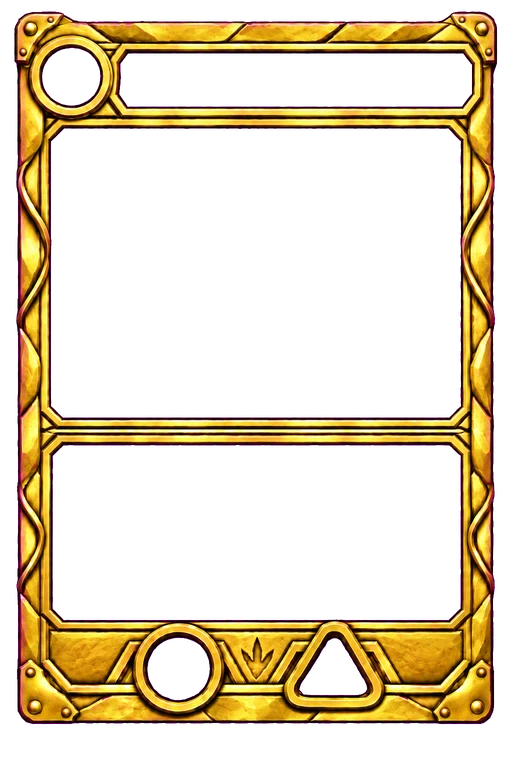
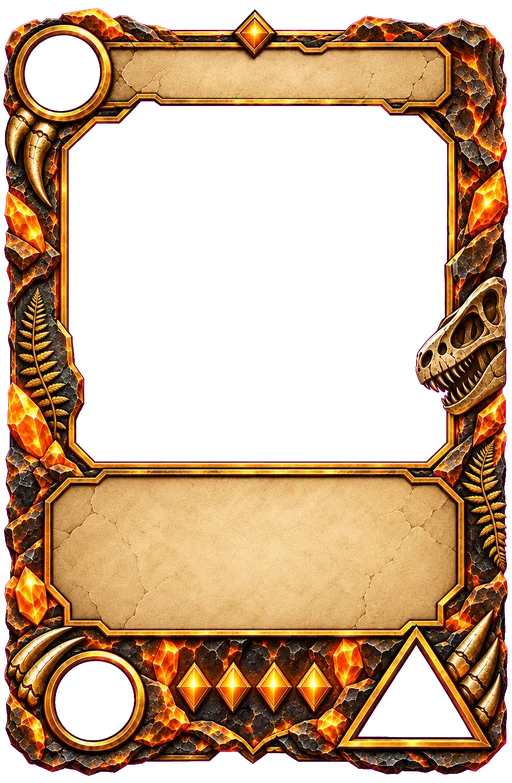
Las legendarias estrenan marco propio, y la carta entera se queda en los jefes
Hasta hoy los cinco marcos de criatura eran el mismo dibujo con otro material.
El legendario es ahora uno distinto, y trae dentro lo que eran piezas sueltas:
el aro del coste, el círculo del Ataque y el triángulo de la Vida, con el
interior hueco. Sus tres chapas se apagan —dibujarlas encima sería ponerle un
aro a un aro— y, sin chapa que cambiar, los dos estados del Ataque los cuenta
el color de la cifra, como la Vida herida ya hacía.

La banda del nombre y la caja de la habilidad son papel pintado en el PNG, así
que ahí la tinta va oscura; las tres cifras caen sobre hueco, o sea sobre el
fondo de la carta, y siguen en claro. Es la única carta del juego con las dos
tintas a la vez.

La geometría la midió tools/marcos.py sobre el PNG, salvo la banda y la caja,
que en este marco no son magenta. La ventana crece del 37,7 % al 45,9 % del
alto y la caja se encoge del 22,8 % al 20,9 %: por eso el texto del visor baja
a 10,5/12 y el título a 18, y las cuatro cartas más largas del set a 9,5/10,8.
Comprobadas las 144: no se corta ninguna línea.

Y las criaturas legendarias dejan de ir a sangre. Las dos cosas se pelean por
la misma carta —una la enmarca y la otra le quita el marco— y gana el marco,
porque la rareza se lee y las cifras tienen dónde apoyarse. La carta entera se
queda en las cinco de jefe, que viven fuera del set y no tienen rareza que
enseñar; test/entera.test.js guarda esa frontera.

Sin migración ni despliegue: es CSS, un WebP y la frontera de esEntera().
[…]

diff --git a/test/entera.test.js b/test/entera.test.js
@@ -1,44 +1,43 @@
 /**
- * La carta ENTERA: las criaturas legendarias y las de jefe van a sangre, con
- * la ilustración cubriendo la carta y el marco reducido a un filete. Lo que
- * se vigila es la frontera —qué cartas lo son y qué cartas no— y que la clase
- * sólo aparezca con foto: una silueta SVG a sangre sería un rectángulo de
- * color con un nombre encima.
+ * La carta ENTERA: las cinco de jefe van a sangre, con la ilustración
+ * cubriendo la carta y el marco reducido a un filete. Lo que se vigila es la
+ * frontera —qué cartas lo son y qué cartas no— y que la clase sólo aparezca
+ * con foto: una silueta SVG a sangre sería un rectángulo de color con un
+ * nombre encima.
+ *
+ * Las criaturas LEGENDARIAS lo fueron hasta el 18-09-2026 y dejaron de serlo
+ * al estrenar marco propio: las dos cosas se pelean por la misma carta, una la
+ * enmarca y la otra le quita el marco. Ese test está aquí para que no vuelvan
+ * a ser las dos cosas a la vez sin que alguien lo decida.
  */
 import { test } from 'node:test';
 import assert from 'node:assert/strict';
 import { readFileSync } from 'node:fs';
-import { CARTAS, CARTAS_DE_JEFE, TIPO, RAREZA } from '../src/data/cards.js';
+import { CARTAS, CARTAS_DE_JEFE } from '../src/data/cards.js';
 import { esEntera } from '../src/ui/art.js';
 import { cartaHTML } from '../src/ui/render.js';
 
 const css = readFileSync(new URL('../carta.css', import.meta.url), 'utf8');
 
-test('son enteras exactamente las criaturas legendarias y las cinco de jefe', () => {
-  for (const c of Object.values(CARTAS)) {
-    const debe = c.tipo === TIPO.DINOSAURIO && c.rareza === RAREZA.LEGENDARIO;
-    assert.equal(esEntera(c.id), debe, c.id);
-  }
+test('son enteras exactamente las cinco cartas de jefe', () => {
+  for (const c of Object.values(CARTAS)) assert.equal(esEntera(c.id), false, c.id);
   for (const c of Object.values(CARTAS_DE_JEFE)) assert.ok(esEntera(c.id), c.id);
 });
 
-test('una legendaria de soporte NO es entera: lo que va a sangre es el animal', () => {
-  const soporte = Object.values(CARTAS).filter((c) => c.tipo !== TIPO.DINOSAURIO && c.rareza === RAREZA.LEGENDARIO);
-  assert.ok(soporte.length > 0, 'el set tiene legendarias de soporte');
-  for (const c of soporte) assert.ok(!esEntera(c.id), c.id);
+test('una legendaria del set NO es entera: lleva su marco', () => {
+  const html = cartaHTML('tyrannosaurus', { variante: 'col' });
+  assert.ok(!/class="[^"]*\bentera\b/.test(html));
+  assert.ok(!html.includes('c-velo'), 'ni el velo, que sólo viaja en las que pueden ir a sangre');
+  assert.ok(html.includes('m-dino_legendaria'));
 });
 
-test('sin foto detectada la carta sale con su marco: la clase `entera` no se emite', () => {
+test('sin foto detectada la de jefe sale con su marco: la clase `entera` no se emite', () => {
   // En node no hay índice de fotos, así que `hayFoto` es falso para todas.
-  const html = cartaHTML('tyrannosaurus', { variante: 'col' });
+  const html = cartaHTML('jefe_saurophaganax', { variante: 'col' });
   assert.ok(!/class="[^"]*\bentera\b/.test(html), 'la clase entera sólo va con foto');
-  assert.ok(html.includes('m-dino_legendaria'), 'el marco legendario sigue puesto de reserva');
+  assert.ok(html.includes('m-dino_jefe'), 'el marco de jefe sigue puesto de reserva');
   assert.ok(html.includes('c-velo'), 'el velo viaja siempre: la clase puede llegar con la foto');
   assert.ok(html.includes('c-fondo'), 'el fondo desenfocado también');
-});
-
-test('una carta que no puede ser entera no lleva velo', () => {
-  assert.ok(!cartaHTML('allosaurus', { variante: 'col' }).includes('c-velo'));
 });
 
 test('carta.css tiene la geometría de la carta entera y apaga el marco dibujado', () => {
@@ -48,4 +47,16 @@ test('carta.css tiene la geometría de la carta entera y apaga el marco dibujado
   assert.match(css, /\.entera \.c-velo\s*\{[^}]*display:\s*block/);
   assert.match(css, /\.entera \.c-arte \.foto\s*\{[^}]*object-fit:\s*contain/, 'la foto apaisada va entera, no recortada');
   assert.match(css, /\.entera \.c-fondo\s*\{[^}]*blur/);
+});
+
+test('el marco legendario trae sus huecos dentro: sus chapas se apagan', () => {
+  assert.match(css, /\.carta\.con-marco\.m-dino_legendaria\s*\{[^}]*--ven-alto:\s*45\.9%/);
+  assert.match(css, /\.carta\.con-marco\.m-dino_legendaria \.c-chapa\s*\{\s*display:\s*none/);
+  // La banda y la caja son papel pintado: ahí la tinta va oscura, y las tres
+  // cifras, que caen sobre hueco, se quedan en claro.
+  assert.match(css, /\.carta\.con-marco\.m-dino_legendaria \.c-hab\s*\{\s*color:\s*#5d2d08/);
+  assert.match(css, /\.carta\.con-marco\.m-dino_legendaria \.st-a b[^{]*\{\s*color:\s*#ffe9b0/);
+  // Sin chapa que cambiar, los dos estados del Ataque los cuenta el color.
+  assert.match(css, /\.carta\.con-marco\.m-dino_legendaria \.st-a\.mejorado b\s*\{\s*color:/);
+  assert.match(css, /\.carta\.con-marco\.m-dino_legendaria \.st-a\.mermado b\s*\{\s*color:/);
 });

diff --git a/carta.css b/carta.css
@@ -87,6 +87,63 @@
   box-shadow: none;
   border-radius: 5.4% / 3.9%;
 }
+/* ================================================== el marco LEGENDARIO
+   Desde el 18-09-2026 las criaturas legendarias llevan un marco propio, y no
+   el mismo dibujo con otro metal que las otras tres rarezas. Trae dentro lo
+   que hasta ahora eran piezas sueltas —el aro del coste, el círculo del
+   Ataque y el triángulo de la Vida—, con el interior hueco, así que sus tres
+   chapas se apagan: dibujarlas encima sería ponerle un aro a un aro.
+
+   La banda del nombre y la caja de la habilidad son PAPEL pintado en el PNG,
+   no huecos, así que ahí la tinta va oscura. Las tres cifras caen sobre hueco,
+   o sea sobre el fondo de la carta, y siguen en claro. Es la única carta del
+   juego con las dos tintas a la vez.
+
+   La geometría la midió `python tools/marcos.py` sobre el PNG, como manda la
+   regla de que la decide el dibujo y no el CSS. Lo único que no mide la
+   herramienta son la banda y la caja, porque en este marco no son magenta:
+   ésos se midieron sobre el papel.
+
+   Y la caja es más baja que la de las otras rarezas —20,9 % del alto contra
+   22,8 %— porque la ventana creció del 37,7 % al 45,9 %. Por eso el texto y el
+   título bajan de cuerpo aquí y sólo aquí: con los de siempre, cuatro cartas
+   del set se cortaban por abajo. */
+.carta.con-marco.m-dino_legendaria {
+  --ban-x0: 24%;    --ban-x1: 13%;    --ban-y0: 6.4%;   --ban-al: 6.2%;
+  --ven-x0: 13.3%;  --ven-x1: 12.5%;  --ven-y0: 13%;    --ven-alto: 45.9%;
+  --pla-x0: 13%;    --pla-x1: 13%;    --pla-y0: 60.5%;  --pla-y1: 18.6%;
+  --cos-cx: 12.11%; --cos-cy: 9.24%;
+  /* El triángulo va por su centro de MASA (90,2 %) y no por el de su caja
+     (88,3 %), por lo mismo que la chapa suelta: una cifra centrada en el
+     rectángulo se ve flotando sobre la punta. */
+  --atq-x: 18.55%;  --atq-y: 89.45%;  --vid-x: 81.05%;  --vid-y: 90.2%;
+}
+.carta.con-marco.m-dino_legendaria .c-chapa { display: none; }
+.carta.con-marco.m-dino_legendaria .c-cuerpo { padding: 2% 4% 1.5%; }
+/* Sobre papel: el nombre, el título y el texto. */
+.carta.con-marco.m-dino_legendaria .c-genero {
+  color: #38200c; text-shadow: 0 1px 0 rgba(255, 247, 225, .5);
+}
+.carta.con-marco.m-dino_legendaria .c-hab { color: #5d2d08; }
+.carta.con-marco.m-dino_legendaria .c-nombre { color: #38200c; }
+.carta.con-marco.m-dino_legendaria .c-texto { color: #2e2113; }
+/* Sobre hueco: las tres cifras. Y los dos estados del Ataque, que en las otras
+   rarezas los cuenta la chapa y aquí no hay chapa que cambiar: los cuenta el
+   color de la cifra, como ya hace la Vida herida. */
+.carta.con-marco.m-dino_legendaria .c-coste,
+.carta.con-marco.m-dino_legendaria .st-a b,
+.carta.con-marco.m-dino_legendaria .st-v b { color: #ffe9b0; }
+.carta.con-marco.m-dino_legendaria .st-v.herido b { color: #f0a488; }
+.carta.con-marco.m-dino_legendaria .st-a.mejorado b { color: var(--bio); }
+.carta.con-marco.m-dino_legendaria .st-a.mermado b { color: var(--peligro); }
+/* Los cuerpos del visor, que es donde el texto de la habilidad se pinta. */
+.carta--visor.con-marco.m-dino_legendaria .c-texto {
+  font: 400 10.5px/12px 'Libre Baskerville', Georgia, serif;
+}
+.carta--visor.con-marco.m-dino_legendaria .c-texto.largo { font-size: 9.5px; line-height: 10.8px; }
+.carta--visor.con-marco.m-dino_legendaria .c-cuerpo { gap: 3px; }
+.carta--visor.con-marco.m-dino_legendaria .c-hab { line-height: 18px; }
+
 /* El especular ya viene pintado en el PNG; el de CSS encima lo emborronaba. */
 .carta.con-marco::before { background: none; }
 

diff --git a/src/ui/art.js b/src/ui/art.js
@@ -4,7 +4,7 @@
 // más información honesta que la silueta. Ninguna lleva plumas — ningún taxón de
 // este set tiene evidencia tegumentaria que las respalde (§2 de la spec).
 
-import { carta, CARTAS_DE_JEFE, TIPO, RAREZA } from '../data/cards.js';
+import { carta, CARTAS_DE_JEFE } from '../data/cards.js';
 
 const SILUETAS = {
   // Terópodo grande: cuerpo horizontal, cráneo profundo, cola contrapesada.
@@ -296,17 +296,18 @@ export const focoDe = (cardId) => focos.get(cardId) ?? null;
 /**
  * Cartas ENTERAS —a sangre—: la ilustración cubre la carta y el marco se
  * reduce a un filete, con el nombre y la habilidad sobre velos translúcidos.
- * Son las criaturas legendarias y las cinco de jefe: lo más raro del set lleva
- * la ilustración más grande, que es lo que un sobre quiere enseñar. La clase
- * sólo se pone cuando HAY foto (`render.js` y `refrescarFotos`): una silueta
- * SVG a sangre sería un rectángulo de color, así que sin foto la carta sale
- * con su marco de siempre.
+ * Son las CINCO DE JEFE y nada más. Las legendarias lo fueron hasta el
+ * 18-09-2026, y dejaron de serlo cuando estrenaron marco propio: las dos cosas
+ * se pelean por la misma carta —una la enmarca y la otra le quita el marco— y
+ * el marco ganó porque la rareza se lee y las cifras tienen dónde apoyarse.
+ * Las de jefe se quedan a sangre porque viven fuera del set y no tienen rareza
+ * que enseñar.
+ *
+ * La clase sólo se pone cuando HAY foto (`render.js` y `refrescarFotos`): una
+ * silueta SVG a sangre sería un rectángulo de color, así que sin foto la carta
+ * sale con su marco de siempre.
  */
-export const esEntera = (cardId) => {
-  if (CARTAS_DE_JEFE[cardId]) return true;
-  const c = carta(cardId);
-  return c.tipo === TIPO.DINOSAURIO && c.rareza === RAREZA.LEGENDARIO;
-};
+export const esEntera = (cardId) => Boolean(CARTAS_DE_JEFE[cardId]);
 
 /**
  * Mira una sola vez qué ilustraciones hay servidas. No rechaza nunca: no tener

diff --git a/sw.js b/sw.js
@@ -17,7 +17,7 @@
 //
 // Al cambiar cualquier fichero servido hay que subir VERSION: activa la limpieza
 // de las cachés anteriores.
-const VERSION = 'dinowar-v146';
+const VERSION = 'dinowar-v147';
 const ESENCIALES = [
   './', './index.html', './style.css', './piel.css', './carta.css', './efectos.css', './manifest.json', './src/main.js',
   // Lo primero que se ve. La marca y la pantalla de carga tienen que estar

diff --git a/CLAUDE.md b/CLAUDE.md
@@ -1415,8 +1415,10 @@ que el resto de gestos.
 
 ## Los marcos de carta: la geometría la decide el PNG
 
-Ocho marcos en `assets/marcos/`: cinco de criatura —cuatro rarezas y el jefe,
-misma geometría, distinto material— y uno por familia de soporte, sin rareza.
+Ocho marcos en `assets/marcos/`: cinco de criatura —cuatro rarezas y el jefe— y
+uno por familia de soporte, sin rareza. Cuatro de los cinco de criatura comparten
+geometría y sólo cambian de material; **el legendario estrenó la suya el
+18-09-2026** y tiene su sección aquí abajo.
 Los originales son PNG de 1024×1536 con los huecos en magenta `#FF00FF`, fuera
 del repositorio; `python tools/marcos.py escribir` los keyea a WebP y **mide
 los huecos**, y esos números son los que van en `carta.css`. No se estiman.
@@ -1441,27 +1443,84 @@ rarezas con ese PNG como referencia y el material como único cambio.
 `test/marcos.test.js` vigila que cada clase que emite `claseMarco()` tenga
 fichero y que ningún WebP sobre.
 
-### La carta ENTERA: las legendarias y los jefes van a sangre
+### El marco legendario: las legendarias estrenan el suyo
+
+Hasta el 18-09-2026 los cinco marcos de criatura eran el MISMO dibujo con otro
+material. Ese día las legendarias estrenaron uno propio, encargado al generador
+en tres vueltas con el autor delante, y con él pasan tres cosas que ningún otro
+marco del juego hace:
+
+- **Trae los huecos de las cifras dentro.** El aro del coste, el círculo del
+  Ataque y el triángulo de la Vida van dibujados en el PNG, con el interior
+  hueco, así que `.c-chapa` se apaga: ponerle la chapa suelta encima sería un
+  aro sobre un aro. Y sin chapa que cambiar, **los dos estados del Ataque los
+  cuenta el COLOR de la cifra** —`mejorado` y `mermado`—, como la Vida herida
+  ya hacía.
+- **La banda y la caja son PAPEL pintado**, no huecos, así que ahí la tinta va
+  oscura; las tres cifras caen sobre hueco, o sea sobre el fondo de la carta, y
+  siguen en claro. Es la única carta del juego con las dos tintas a la vez.
+- **La ventana crece del 37,7 % al 45,9 %** del alto, y la caja se encoge del
+  22,8 % al 20,9 %. Por eso el texto baja a 10,5/12 px y el título a 18 en el
+  visor, y las cuatro cartas más largas del set a 9,5/10,8: comprobado sobre
+  las 144, no se corta ninguna línea. Si algún día se quiere el texto al cuerpo
+  de siempre, la que tiene que ceder dos puntos es la ventana.
+
+La geometría la midió `python tools/marcos.py` sobre el PNG, como manda la
+regla; lo único que no mide son la banda y la caja, porque en este marco no son
+magenta. Ésas se midieron sobre el papel.
+
+Lo que costó, por si vuelve a encargarse uno:
+
+- **Dos de las tres entregas llegaron con el damero pintado** en vez de magenta
+  o alfa, y con un filete blanco de un píxel pegado al canto. Las dos cosas hay
+  que decirlas en el encargo.
+- **La segunda puso PAPEL dentro del aro, el círculo y el triángulo.** En el
+  visor se lee precioso y en la colección a 83 px las cifras se pierden: tinta
+  oscura sobre papel claro, y encima en el filo de la caja. El hueco vacío
+  sobre fondo oscuro gana a cualquier tamaño.
+- **El banderín de rareza se comía la banda del nombre.** Con el banderín en la
+  esquina, la banda llegaba al 70 % del ancho y «Carcharodontosaurus» dejaba de
+  leerse a 83 px. Los cuatro rombos se fueron a la piedra del pie y la banda
+  llega al 87 %.
+- **La proporción sigue sin cuadrar.** El PNG llegó a 1014×1551 —0,654— y la
+  carta es 0,732, así que el CSS lo estira un 12 % a lo ancho y el aro y el
+  círculo salen elípticos. Los ocho marcos de hoy tienen el mismo defecto en
+  menor medida (9,8 %); se acaba pidiéndolos a **1148×1568**, que es 82:112
+  exacto.
+
+Quedan los otros siete en este estilo —las tres rarezas, el jefe y las tres
+familias de soporte—, con esta misma geometría y el material como único cambio;
+las de soporte, sin banda y sin los dos huecos de cifras.
+
+### La carta ENTERA: las cinco de jefe van a sangre
 
 Desde el 18-09-2026 (decisión del autor, con las cartas de Crown War delante:
 «el arte de la carta, bordes, full art es bastante bueno, profesional,
-pulcro»), las **criaturas legendarias y las cinco de jefe** se pintan enteras:
+pulcro»), **las cinco cartas de jefe** se pintan enteras:
 la ilustración cubre la carta, el marco de latón se apaga y en su sitio hay un
-filete dorado —bronce en el jefe—, el nombre va sobre un velo oscuro y la
-habilidad en una caja de cristal translúcido apoyada en las chapas. Es la
-variante «full art» de cualquier TCG, y lo que se decidió al hacerla:
+filete de bronce, el nombre va sobre un velo oscuro y la habilidad en una caja
+de cristal translúcido apoyada en las chapas. Es la variante «full art» de
+cualquier TCG.
+
+**Las criaturas LEGENDARIAS lo fueron el mismo día y dejaron de serlo**, al
+estrenar marco propio: las dos cosas se pelean por la misma carta —una la
+enmarca y la otra le quita el marco— y ganó el marco, porque la rareza se lee y
+las cifras tienen dónde apoyarse. Las de jefe se quedan a sangre porque viven
+fuera del set y no tienen rareza que enseñar. `test/entera.test.js` guarda esa
+frontera. Lo que se decidió al hacerla:
 
 - **Es una clase, `entera`, y no un marco nuevo.** `marcoCarta()` emite lo
   mismo; `carta.css` mueve la GEOMETRÍA de los huecos —la ventana a la carta
   entera, la banda más ancha, la caja abajo, las chapas de cifras al 90 %— y
   el mismo `<span class="c-marco">` pinta el filete con un degradado
   recortado a anillo por dos máscaras. Cero ficheros nuevos, y
-  `test/marcos.test.js` sigue igual: el marco legendario existe y se usa de
+  `test/marcos.test.js` sigue igual: el marco de jefe existe y se usa de
   reserva.
-- **Sólo con foto.** `esEntera()` en `art.js` dice qué cartas lo son;
-  `clasesCarta()` pone la clase si además `hayFoto()`, y `refrescarFotos()`
-  la añade cuando el índice llega después de pintar. Una silueta SVG a sangre
-  sería un rectángulo de color con un nombre encima.
+- **Sólo con foto.** `esEntera()` en `art.js` dice qué cartas lo son —hoy, las
+  de `CARTAS_DE_JEFE` y nada más—; `clasesCarta()` pone la clase si además
+  `hayFoto()`, y `refrescarFotos()` la añade cuando el índice llega después de
+  pintar. Una silueta SVG a sangre sería un rectángulo de color con un nombre
+  encima.
 - **El velo del nombre es un `<span class="c-velo">` propio**, no
   `.c-arte::after`: ese pseudoelemento ya es el brillo de las legendarias en la
   colección y el sobre. Viaja en toda carta que PUEDA ser entera, y sin la
@@ -1492,10 +1551,16 @@ variante «full art» de cualquier TCG, y lo que se decidió al hacerla:
 
 Lo que se miró al lado de Crown War y NO se copió: su estilo pintado tipo
 anime —el fotorrealismo es lo que nos distingue—, su tipografía sin sistema, y
-que la rareza no se lea en la carta. Y lo que queda por hacer de aquello es la
-ventana grande para TODAS las cartas —marcos nuevos con el arte al 55 % del
-alto y las cifras montadas sobre él—, que son ocho PNG del generador y
-re-medir `carta.css`; se dejó para después de ver cómo funciona esto.
+que la rareza no se lea en la carta. La ventana grande para TODAS las cartas
+—que era lo que quedaba de aquello— se empezó por el marco legendario de aquí
+arriba; faltan los otros siete.
+
+Y una cosa que se midió antes de descartarla: **llevar la carta entera a todo
+el set no funciona.** Las criaturas ganan en el visor, sí, pero a 83 px el
+filete son 1,8 px por lado y la rareza deja de leerse en la colección, que es
+donde hace falta para armar un mazo; y las de soporte se rompen, porque no
+llevan banda de nombre y arriba queda una franja vacía con el coste solo.
+Medido con las siete familias delante antes de decidir el marco.
 
 Las piezas del menú —la barra de «Empezar partida» y las cinco placas— y el
 sobre y el dorso son del mismo generador y el mismo material, pero no llegaron
